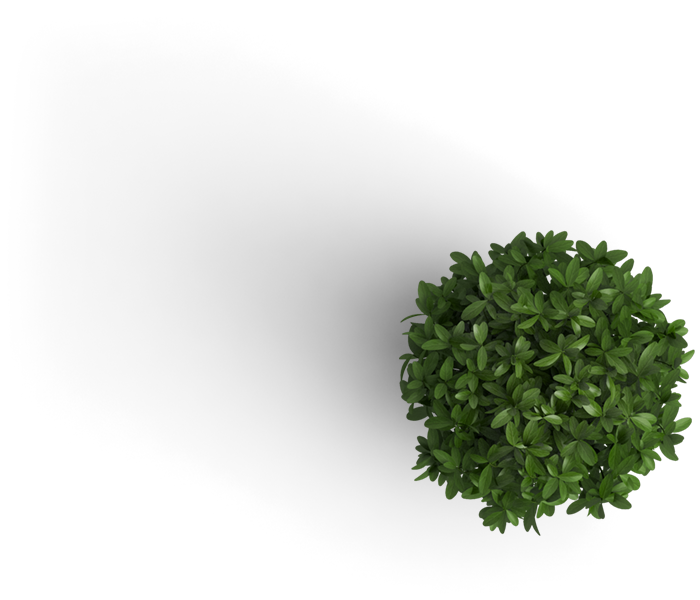
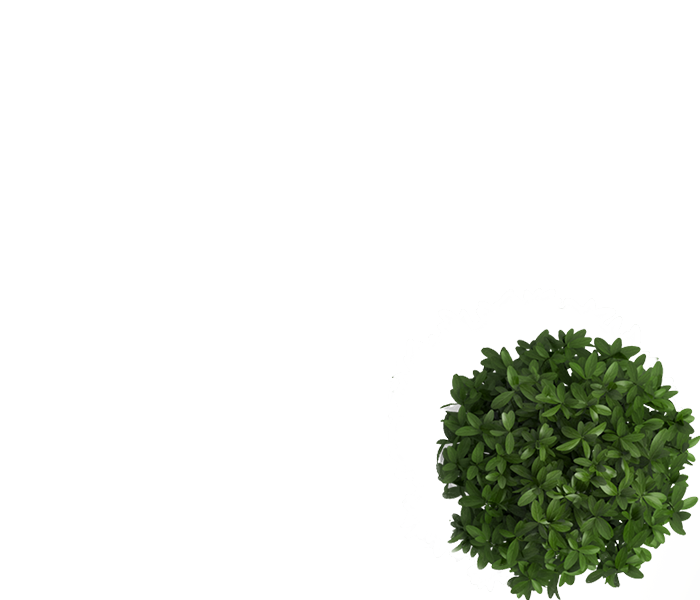
update

Changed region(s): [[0.27, 0.33, 1.0, 1.0]]

diff --git a/public/css/divineartnav-style.css b/public/css/divineartnav-style.css
@@ -18,7 +18,8 @@ ul.cart-list > li.total > .btn{
 /*--- Nav ---*/
 
 nav.navbar .navbar-brand img.logo {
-    max-width: 150px;
+    /*max-width: 150px;*/
+    max-width: 250px;
 }
 nav.navbar .megamenu-content .col-menu .title {
     display:none;

diff --git a/resources/views/pages/progress.blade.php b/resources/views/pages/progress.blade.php
@@ -1,18 +1,107 @@
 <!-- Start About US -->
-<section id="fullwidth_19"  class="about-us wow fadeInUp">
+<section id="fullwidth_19" class="about-us wow fadeInUp">
     <div class="container">
         <div class="row">
 
+
+            <div class="col-sm-6 col-md-6 col-xs-12 accordionstyle_2 accordion_3 wow fadeInLeft"
+                 style="visibility: visible; animation-name: fadeInLeft;">
+
+                <div class="dart-headingstyle-one text-left dart-mb-30">  <!--Style 1-->
+                    <h2 class="dart-heading">T.A.S Technologies</h2>
+                </div>
+                <p>We deliver smart, practical and cost-effective IT solutions to our
+                    clients with high quality on time and within budget. We believe in agile
+                    methodologies and bring our vast experience in working with companies to
+                    bear.
+                </p>
+
+                <div class="panel-group" id="accordion_3">
+                    <div class="panel panel-default">
+                        <div class="panel-heading">
+                            <h4 class="panel-title">
+                                <a class="collapsed" data-toggle="collapse" data-parent="#accordion_3"
+                                   href="#collapseTwoLeftone" aria-expanded="false">
+                                    Why Choose Us?
+                                </a>
+                            </h4>
+                        </div>
+                        <div id="collapseTwoLeftone" class="panel-collapse collapse" aria-expanded="false">
+                            <div class="panel-body">
+
+                                <div class="text-accordion">
+                                    <p class="">
+                                        We are full service web application development shop interested in
+                                        creating clean, clear and creative websites and applications. We give due
+                                        importance to content, navigation, accessibility , usability & search
+                                        engine friendly web design aspects. Having your website designed or
+                                        redesigned doesn't have to be stressful. We listen and work with you to
+                                        figure out what you want and strive to achieve your goals. Our clients
+                                        always appreciated our approachability, communication and willingness to
+                                        teach and empower them to update sites
+                                        themselves.</p>                                    </p>
+                                </div>
+                            </div><!-- end of panel-body -->
+                        </div>
+                    </div><!-- /.panel-default -->
+                    <div class="panel panel-default">
+                        <div class="panel-heading">
+                            <h4 class="panel-title">
+                                <a class="collapsed" data-toggle="collapse" data-parent="#accordion_3"
+                                   href="#collapseTwoLeftTwo" aria-expanded="false">
+                                    What we do?
+                                </a>
+                            </h4>
+                        </div>
+                        <div id="collapseTwoLeftTwo" class="panel-collapse collapse" aria-expanded="false">
+                            <div class="panel-body">
+                                <div class="text-accordion">
+                                    <p class="">
+                                        MWebWare provides seven distinct services and solutions for its clients.
+                                        Our services cover the whole gamut of application development life cycle.
+                                        We bring our rich experience and engage our clients with a focus on
+                                        solving business problems with technology solutions. Pairing our team's
+                                        superb capabilities in specific technologies with their diverse
+                                        backgrounds and rich experience, we deliver answers for our clients' most
+                                        pressing business issues. </p>
+                                </div>
+                            </div><!-- end of panel-body -->
+                        </div>
+                    </div><!-- /.panel-default -->
+                    <div class="panel panel-default">
+                        <div class="panel-heading">
+                            <h4 class="panel-title">
+                                <a class="collapsed" data-toggle="collapse" data-parent="#accordion_3"
+                                   href="#collapseTwoLeftThree" aria-expanded="false">
+                                    What we offer?
+                                </a>
+                            </h4>
+                        </div>
+                        <div id="collapseTwoLeftThree" class="panel-collapse collapse" aria-expanded="false">
+                            <div class="panel-body">
+
+                                <div class="text-accordion">
+                                    <p class="">
+                                        Web Application DevelopmentSearch & Analytics Servicese-Business
+                                        ServicesPortal ServicesIT Consulting ServicesProject Management
+                                        ServicesProcess Consulting Services508/Accessibility Consulting Services </p>
+                                </div>
+                            </div><!-- end of panel-body -->
+                        </div>
+                    </div><!-- /.panel-default -->
+                </div>
+            </div>
+
             <div class="col-lg-6 col-md-6 col-sm-12 col-xs-12 dart-pt-20 dart-pb-20">
-                <div class="about-box">
+                <div class="about-box" style="    box-shadow: 10px 10px grey;">
                     <div class="dart-headingstyle-six dart-mb-30">  <!--Style 1-->
                         <h2 class="dart-heading text-capitalize white">About US</h2>
                     </div>
 
                     <div class="content_block dart-pb-0">
-<p class="text-justify">T.A.S Technologies is a complete web software solutions company with a
-    strong focus on meeting the needs of small to medium business Radiology
-    practices and firms with commercial and open source web software.</p>
+                        <p class="text-justify">T.A.S Technologies is a complete web software solutions company with a
+                            strong focus on meeting the needs of small to medium business Radiology
+                            practices and firms with commercial and open source web software.</p>
                         <div class="row">
                             <div class="col-sm-9 col-xs-9">
                                 <ul class="list-circle list-unstyled">
@@ -31,89 +120,7 @@
 
             </div><!--end of /.col-sm-6-->
 
-            <div class="col-sm-6 col-md-6 col-xs-12 accordionstyle_2 accordion_3 wow fadeInLeft" style="visibility: visible; animation-name: fadeInLeft;">
-
-                <div class="dart-headingstyle-one text-left dart-mb-30">  <!--Style 1-->
-                    <h2 class="dart-heading">T.A.S Technologies</h2>
-                </div>
-                <p>We deliver smart, practical and cost-effective IT solutions to our
-                    clients with high quality on time and within budget. We believe in agile
-                    methodologies and bring our vast experience in working with companies to
-                    bear.
-                </p>
-
-                <div class="panel-group" id="accordion_3">
-                    <div class="panel panel-default">
-                        <div class="panel-heading">
-                            <h4 class="panel-title">
-                                <a class="collapsed" data-toggle="collapse" data-parent="#accordion_3" href="#collapseTwoLeftone" aria-expanded="false">
-                                    Why Choose Us?
-                                </a>
-                            </h4>
-                        </div>
-                        <div id="collapseTwoLeftone" class="panel-collapse collapse" aria-expanded="false">
-                            <div class="panel-body">
-
-                                <div class="text-accordion">
-                                    <p class="">
-                                        We are full service web application development shop interested in
-                                        creating clean, clear and creative websites and applications. We give due
-                                        importance to content, navigation, accessibility , usability & search
-                                        engine friendly web design aspects. Having your website designed or
-                                        redesigned doesn't have to be stressful. We listen and work with you to
-                                        figure out what you want and strive to achieve your goals. Our clients
-                                        always appreciated our approachability, communication and willingness to
-                                        teach and empower them to update sites themselves.</p>                                    </p>
-                                </div>
-                            </div><!-- end of panel-body -->
-                        </div>
-                    </div><!-- /.panel-default -->
-                    <div class="panel panel-default">
-                        <div class="panel-heading">
-                            <h4 class="panel-title">
-                                <a class="collapsed" data-toggle="collapse" data-parent="#accordion_3" href="#collapseTwoLeftTwo" aria-expanded="false">
-                                    What we do?
-                                </a>
-                            </h4>
-                        </div>
-                        <div id="collapseTwoLeftTwo" class="panel-collapse collapse" aria-expanded="false">
-                            <div class="panel-body">
-                                <div class="text-accordion">
-                                    <p class="">
-                                        MWebWare provides seven distinct services and solutions for its clients.
-                                        Our services cover the whole gamut of application development life cycle.
-                                        We bring our rich experience and engage our clients with a focus on
-                                        solving business problems with technology solutions. Pairing our team's
-                                        superb capabilities in specific technologies with their diverse
-                                        backgrounds and rich experience, we deliver answers for our clients' most
-                                        pressing business issues.                                    </p>
-                                </div>
-                            </div><!-- end of panel-body -->
-                        </div>
-                    </div><!-- /.panel-default -->
-                    <div class="panel panel-default">
-                        <div class="panel-heading">
-                            <h4 class="panel-title">
-                                <a class="collapsed" data-toggle="collapse" data-parent="#accordion_3" href="#collapseTwoLeftThree" aria-expanded="false">
-                                    What we offer?
-                                </a>
-                            </h4>
-                        </div>
-                        <div id="collapseTwoLeftThree" class="panel-collapse collapse" aria-expanded="false">
-                            <div class="panel-body">
-
-                                <div class="text-accordion">
-                                    <p class="">
-                                        Web Application DevelopmentSearch & Analytics Servicese-Business
-                                        ServicesPortal ServicesIT Consulting ServicesProject Management
-                                        ServicesProcess Consulting Services508/Accessibility Consulting Services                                    </p>
-                                </div>
-                            </div><!-- end of panel-body -->
-                        </div>
-                    </div><!-- /.panel-default -->
-                </div>
-            </div>
-            </div><!--end of /.panel-group-->
-            </div><!--end of /.col-sm-6-->
+        </div><!--end of /.panel-group-->
+    </div><!--end of /.col-sm-6-->
 </section>
 <!-- End About US -->

diff --git a/resources/views/pages/header.blade.php b/resources/views/pages/header.blade.php
@@ -20,8 +20,8 @@
                 <i class="ti-align-left"></i>
             </button>
             <a class="navbar-brand" href="index-47.html">
-                <img src="{{asset('images/logo-2.png')}}" srcset="{{asset('images/logo-2-2x-retina.png')}}" class="logo logo-display" alt="Divine">
-                <img src="{{asset('images/logo-2.png')}}" srcset="{{asset('images/logo-2-2x-retina.png')}}" class="logo logo-scrolled" alt="Divine">
+                <img src="{{asset('images/tech.jpg')}}" srcset="{{asset('images/tech.jpg')}}" class="logo logo-display" alt="Divine">
+                <img src="{{asset('images/tech.jpg')}}" srcset="{{asset('images/tech.jpg')}}" class="logo logo-scrolled" alt="Divine">
 
             </a>
         </div>
@@ -30,22 +30,9 @@
         <!-- Collect the nav links, forms, and other content for toggling -->
         <div class="collapse navbar-collapse" id="navbar-menu">
             <ul class="nav navbar-nav navbar-right" data-in="fadeInDown" data-out="fadeOutUp">
-                <li class="dropdown megamenu-fw active">
-                    <a href="#" class="dropdown-toggle" data-toggle="dropdown">Home</a>
-                </li>
-                <li class="dropdown">
-                    <a href="#" class="dropdown-toggle" data-toggle="dropdown" >Pages</a>
-                </li>
-                <li class="dropdown megamenu-fw">
-                    <a href="#" class="dropdown-toggle" data-toggle="dropdown">Shortcode</a>
-                </li>
-                <li class="dropdown">
-                    <a href="#" class="dropdown-toggle" data-toggle="dropdown" >Features</a>
-                </li>
-                <li class="dropdown">
-                    <a href="#" class="dropdown-toggle" data-toggle="dropdown" >Blog</a>
-                </li>
-                <li><a href="contact.html">Contact Us</a></li>
+                <li><a href="">Home</a></li>
+                <li><a href="">Services</a></li>
+                <li><a href="">Contact Us</a></li>
             </ul>
         </div><!-- /.navbar-collapse -->
     </div>

diff --git a/resources/views/pages/slider.blade.php b/resources/views/pages/slider.blade.php
@@ -30,7 +30,7 @@
                              data-paddingbottom="[0,0,0,0]"
                              data-paddingleft="[0,0,0,0]"
 
-                             style="z-index: 5;border-width:0px;"><img src="{{asset('images/header_penpot.png')}}" alt="" data-ww="['650px','650px','650px','650px']" data-hh="['500px','500px','500px','500px']" width="650" height="500" data-no-retina> </div>
+                             style="z-index: 5;border-width:0px;"><img src="{{asset('images/header_flowerpot.png')}}" alt="" data-ww="['650px','650px','650px','650px']" data-hh="['500px','500px','500px','500px']" width="650" height="500" data-no-retina> </div>
 
                         <!-- LAYER NR. 2 -->
                         <div class="tp-caption   tp-resizeme rs-parallaxlevel-9"
@@ -52,7 +52,7 @@
                              data-paddingbottom="[0,0,0,0]"
                              data-paddingleft="[0,0,0,0]"
 
-                             style="z-index: 6;border-width:0px;"><img src="{{asset('images/header_flowerpot.png')}}" alt="" data-ww="['700px','700px','700px','700px']" data-hh="['600px','600px','600px','600px']" width="700" height="600" data-no-retina> </div>
+                             style="z-index: 6;border-width:0px;"><img src="{{asset('images/header_penpot.png')}}" alt="" data-ww="['700px','700px','700px','700px']" data-hh="['600px','600px','600px','600px']" width="700" height="600" data-no-retina> </div>
 
                         <!-- LAYER NR. 3 -->
                         <div class="tp-caption   tp-resizeme rs-parallaxlevel-10"

diff --git a/app/Http/Controllers/FrontEndController.php b/app/Http/Controllers/FrontEndController.php
@@ -20,6 +20,14 @@ class FrontEndController extends Controller
         return view('welcome');
     }
 
+//    public function services(){
+//        return view('services');
+//    }
+//
+//    public function  contact(){
+//        return view('contact');
+//    }
+
     //Album FrontEnd
     public function album()
     {

diff --git a/routes/web.php b/routes/web.php
@@ -14,6 +14,7 @@
 Route::get('/', 'FrontEndController@index')->name('index');
 
 
+
 Route::get('login', 'Auth\LoginController@showLoginForm')->name('login');
 Route::post('login', 'Auth\LoginController@login');
 Route::get('logout', 'Auth\LoginController@logout');
